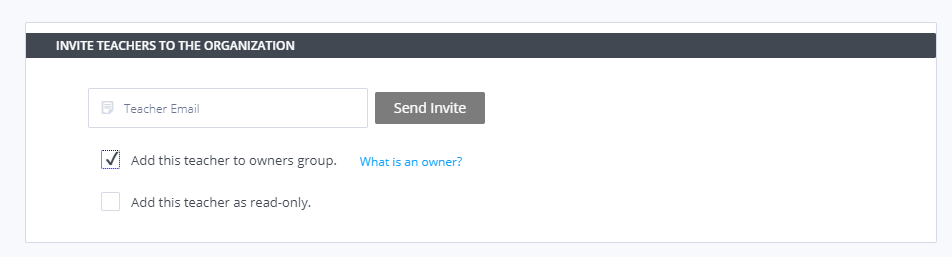
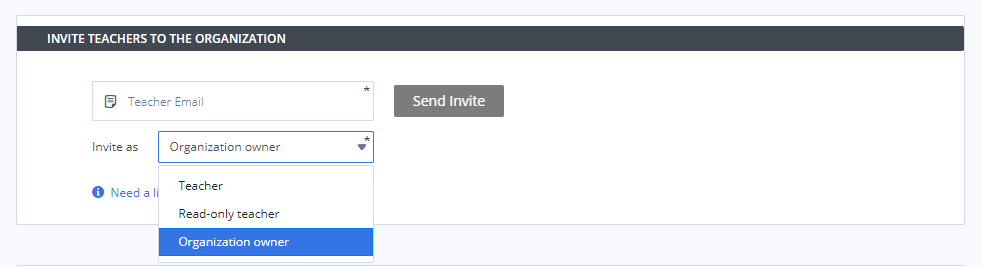
Newcoursedropdown (#256)

diff --git a/source/instructors/setupcourses/create-course.rst b/source/instructors/setupcourses/create-course.rst
@@ -6,15 +6,15 @@
 
 Create a New Course
 ===================
-To work with the course features in Codio, you must first set up a course for your students. You can create a new empty course or create a course using share code. Creating a course using share code if often used when you want to create a course from content outside your organization. You can also :ref:`clone a course <clone-course>`.
+To work with the course features in Codio, you must first set up a course for your students. You can author your own course or create a course using share code or add a course from Codio Courseware Catalog. Creating a course using share code is often used when you want to create a course from content outside your organization. You can also :ref:`clone a course <clone-course>`.
 
-Create empty course
--------------------
-To create an empty course, follow these steps:
+Author Your Own Course
+----------------------
+To author your own course, follow these steps:
 
 1. Sign in to your Codio account.
 2. Click the **Codio** icon in the top left corner of the IDE, or click **Courses** in the left navigation menu on the dashboard to open the **Courses** page.
-3. Click the **New Course** drop-down and choose **Add Empty Course**.
+3. Click the **New Course** drop-down and choose **Author Your Own Course**.
 
    .. image:: /img/manage_classes/addcourse.png
       :alt: New Course
@@ -50,6 +50,33 @@ To create a course from share code, follow these steps:
 .. Note:: Courses will also automatically archive when the archive date set for the course is reached. This date can be amended (or removed) in the course details area if you require the course to continue to be active
 
 5. Click **Create Course**.
+
+Choose From Courseware Catalog
+------------------------------
+
+You can add a resource from :ref:`Codio Courseware Catalog <codio-resources>`. These resources are completely editable and can be customized to suit your teaching context. You can mix-and-match different resources together and add your own content.
+
+To add a resource from Codio Courseware Catalog, follow these steps:
+
+1. Sign in to your Codio account.
+2. Click the **Codio** icon in the top left corner of the IDE, or click **Courses** in the left navigation menu on the dashboard to open the **Courses** page.
+3. Click the **New Course** drop-down and choose **Choose From Courseware Catalog**.
+4. Select a resource you want from the resource list.
+5. Click **Evaluate** button to add the selected resource into your Codio account.
+
+   .. image:: /img/manage_classes/evaluate_button.png
+      :alt: Evaluate Button
+
+6. Complete the fields on the **Clone a Course by code** form, including the **Course Name**, **Organization**, **Start Date** (optional), **Archive Date** (optional) and **Tags** (optional).
+
+
+   .. image:: /img/manage_classes/addresource.png
+      :alt: Create Course from Share Code
+
+
+.. Note:: Courses will also automatically archive when the archive date set for the course is reached. This date can be amended (or removed) in the course details area if you require the course to continue to be active
+
+7. Click **Create Course**.
 
 More information
 ----------------

diff --git a/source/instructors/admin/organization/add-teachers.rst b/source/instructors/admin/organization/add-teachers.rst
@@ -25,10 +25,11 @@ Invite teacher to the organization
    .. image:: /img/manage_organization/memberstab.png
       :alt: Members
 
-4. In the  **Invite Teacher to the Organization** area, enter in the **Teacher Email** and optionally check the following check boxes:
+4. In the  **Invite Teacher to the Organization** area, enter in the **Teacher Email** and select one of the following option from the drop down:
 
-  - **Add this teacher to owners group** - Check the check box if you want the teacher to have full owner permissions.
-  - **Add this teacher as Read Only** - Check the check box if you want to prevent the teacher from making changes to the content in courses (cannot switch to Edit mode).
+  - **Teacher** - Select this if you want the teacher to have standard teacher permissions, this is default.
+  - **Read-only teacher** - Select this if you want to prevent the teacher from making changes to the content in courses (cannot switch to Edit mode).
+  - **Organization owner** - Select this if you want the teacher to have full owner permissions.
 
    .. image:: /img/manage_organization/inviteteacher.png
       :alt: Invite Owner

diff --git a/source/instructors/authoring/assessments/advanced-code-test.rst b/source/instructors/authoring/assessments/advanced-code-test.rst
@@ -131,6 +131,17 @@ checkstyle
   
  When using checkstyle in Codio, specify the configuration file under **CONFIG PATH** -- you can use the `Google configuration`_, `Sun configuration`_, or `create your own configuration`_.
  
+ Select the **CHECKSTYLE VERSION**, by default the appropriate version is selected according to your installed Java version but you can also select one of the available options:
+
+  - Checkstyle v10.12(JRE 11 and above)
+
+  - Checkstyle v8.24(JRE 8 and above)
+
+  - Checkstyle v8.9(JRE 8)
+
+  - Checkstyle v6.6(JRE 6 and 7)
+
+
   Specify the Java files you'd like Checkstyle to check under the **ADD CASE:** option.
  
  The student will need to follow all style conventions to earn full credit on the assessment.

diff --git a/source/instructors/admin/organization/add-remove-org-owners.rst b/source/instructors/admin/organization/add-remove-org-owners.rst
@@ -26,7 +26,7 @@ Follow these steps to add a new user to the Owners group in your organization:
    .. image:: /img/manage_organization/memberstab.png
       :alt: Members
 
-4. In the  **Invite Teacher to the Organization** area, enter in the **Teacher Email** and check the **Add this teacher to owners group** check box.
+4. In the  **Invite Teacher to the Organization** area, enter in the **Teacher Email** and select the **Organization owner** from the drop down.
 
    .. image:: /img/manage_organization/inviteowner.png
       :alt: Invite Owner
